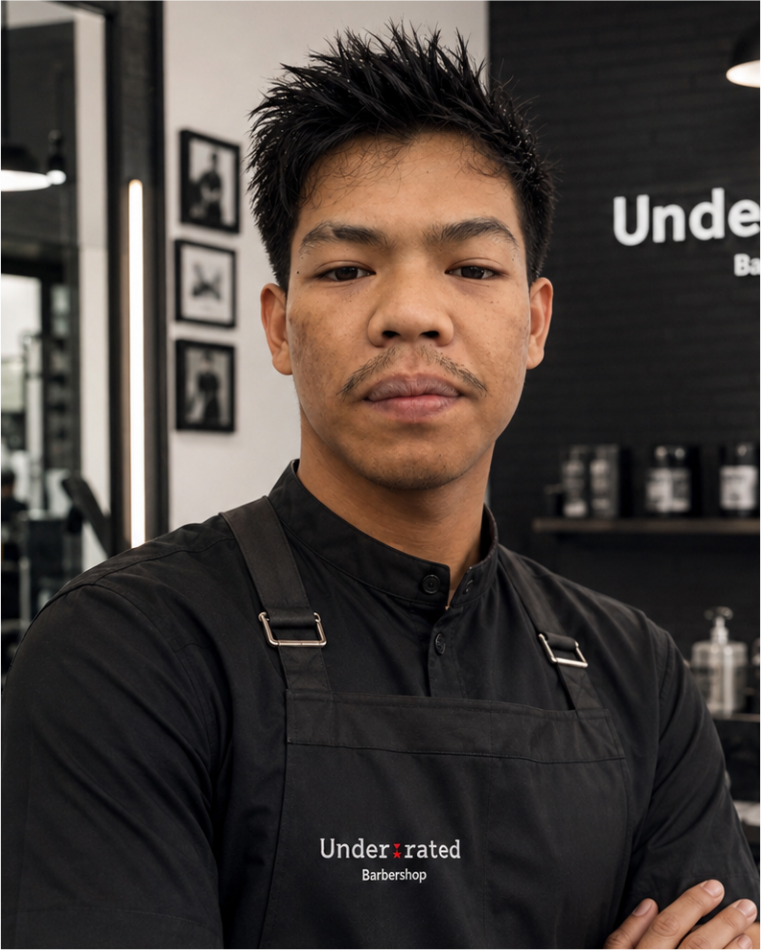
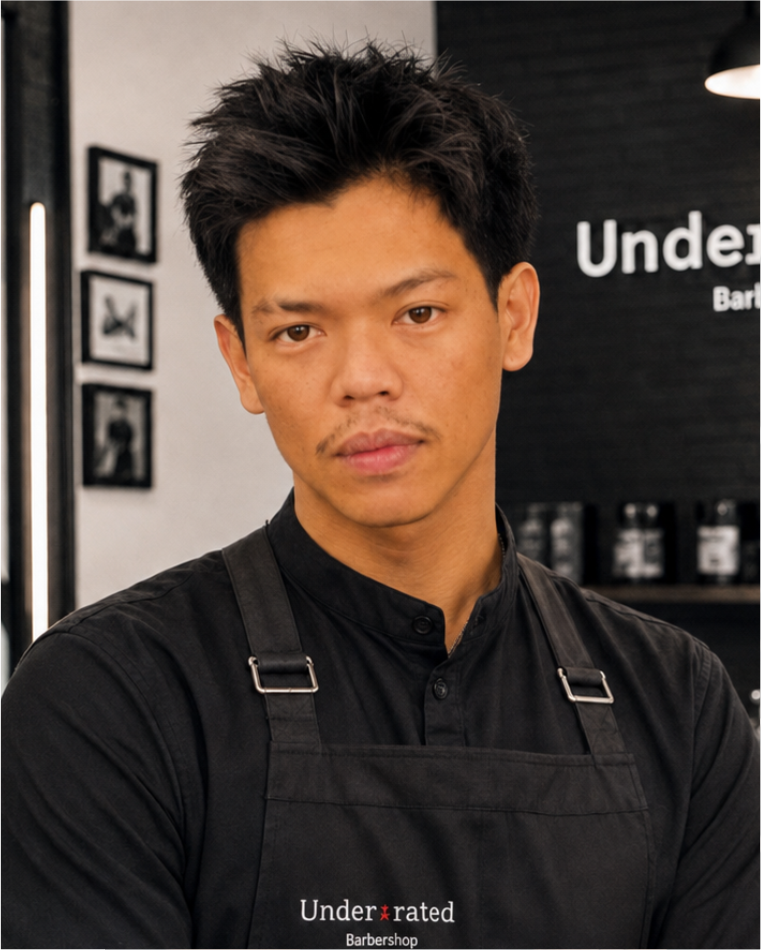
fix(foto): ganti foto Cena, dan pasang penanda versi pada WebP
Foto barunya berukuran sama persis, 761x950 RGBA, jadi pengganti langsung
tanpa tata letak avatar bergeser. WebP dibuat ulang pada mutu yang membuat
bobotnya sepadan dengan berkas lama: 59 KB, dari 75 KB sebelumnya.

PENANDA VERSI PADA WEBP SEBELUMNYA TIDAK ADA SAMA SEKALI

Ini cacat dari perubahan foto kemarin. Hanya PNG yang diberi ?v=3, padahal
WebP-lah yang sebenarnya diunduh hampir semua peramban. Akibatnya mengganti
foto tidak akan pernah sampai ke siapa pun yang sudah memuatnya, dan penanda
pada PNG hanya menghias jalur cadangan yang nyaris tidak pernah dipakai.

Seluruh rujukan kini berpenanda v=4, WebP maupun PNG, di empat berkas.
Ketiga capster ikut naik versinya walau hanya Cena yang berubah: penandanya
disusun dari batang nama yang sama, dan memecahnya per orang menambah tempat
yang bisa terlupakan tanpa alasan yang sepadan.

Berkas uji kini menuntut setiap rujukan WebP berpenanda versi, dan menuntut
penandanya seragam dengan PNG-nya. Kalau berbeda, satu jalur menyajikan foto
lama sementara jalur lain menyajikan yang baru.

diff --git a/landing.html b/landing.html
@@ -523,19 +523,19 @@
       <h2 class="muncul">Our Capster</h2>
       <div class="kapster" id="kapsterDaftar">
         <div class="kapster-orang muncul">
-          <div class="avatar" aria-hidden="true"><picture><source srcset="assets/cena.webp" type="image/webp" /><img src="assets/cena.png?v=3" alt="Cena" loading="lazy" /></picture></div>
+          <div class="avatar" aria-hidden="true"><picture><source srcset="assets/cena.webp?v=4" type="image/webp" /><img src="assets/cena.png?v=4" alt="Cena" loading="lazy" /></picture></div>
           <div class="kapster-nama">Cena</div>
           <div class="kapster-peran">Capster</div>
           <button type="button" class="pil pil-garis" data-kapster="Cena">Pilih Cena</button>
         </div>
         <div class="kapster-orang muncul">
-          <div class="avatar" aria-hidden="true"><picture><source srcset="assets/lukman.webp" type="image/webp" /><img src="assets/lukman.png?v=3" alt="Lukman" loading="lazy" /></picture></div>
+          <div class="avatar" aria-hidden="true"><picture><source srcset="assets/lukman.webp?v=4" type="image/webp" /><img src="assets/lukman.png?v=4" alt="Lukman" loading="lazy" /></picture></div>
           <div class="kapster-nama">Lukman</div>
           <div class="kapster-peran">Capster</div>
           <button type="button" class="pil pil-garis" data-kapster="Lukman">Pilih Lukman</button>
         </div>
         <div class="kapster-orang muncul">
-          <div class="avatar" aria-hidden="true"><picture><source srcset="assets/wanda.webp" type="image/webp" /><img src="assets/wanda.png?v=3" alt="Wanda" loading="lazy" /></picture></div>
+          <div class="avatar" aria-hidden="true"><picture><source srcset="assets/wanda.webp?v=4" type="image/webp" /><img src="assets/wanda.png?v=4" alt="Wanda" loading="lazy" /></picture></div>
           <div class="kapster-nama">Wanda</div>
           <div class="kapster-peran">Capster</div>
           <button type="button" class="pil pil-garis" data-kapster="Wanda">Pilih Wanda</button>
@@ -777,8 +777,8 @@
 
     function gambarKapster(batang, nama) {
       return '<picture>'
-           + '<source srcset="' + batang + '.webp" type="image/webp" />'
-           + '<img src="' + batang + '.png?v=3" alt="' + esc(nama) + '" loading="lazy" />'
+           + '<source srcset="' + batang + '.webp?v=4" type="image/webp" />'
+           + '<img src="' + batang + '.png?v=4" alt="' + esc(nama) + '" loading="lazy" />'
            + '</picture>';
     }
 

diff --git a/tests/landing-booking.test.js b/tests/landing-booking.test.js
@@ -146,6 +146,23 @@ for (const nama of berkasFoto) {
   }
   assert.match(isi, /\.webp/, nama + ' harus menawarkan WebP');
   assert.match(isi, /\.png\?v=/, nama + ' harus menyimpan cadangan PNG');
+
+  // WebP wajib berpenanda versi. Ini pernah terlewat: hanya PNG yang diberi
+  // penanda, padahal WebP yang sebenarnya diunduh hampir semua peramban.
+  // Akibatnya mengganti foto tidak akan pernah sampai ke orang yang sudah
+  // memuatnya, dan penanda pada PNG hanya menghias jalur cadangan yang nyaris
+  // tidak pernah dipakai.
+  const rujukanWebp = isi.match(/[\w${}[\]'. +]*\.webp[^"']*/g) || [];
+  for (const r of rujukanWebp) {
+    assert.match(r, /\.webp\?v=\d+/, nama + ' punya rujukan WebP tanpa penanda versi: ' + r);
+  }
+
+  // Keduanya harus menunjuk versi yang sama; kalau berbeda, satu jalur
+  // menyajikan foto lama sementara jalur lain menyajikan yang baru.
+  const versiWebp = [...isi.matchAll(/\.webp\?v=(\d+)/g)].map(x => x[1]);
+  const versiPng = [...isi.matchAll(/\.png\?v=(\d+)/g)].map(x => x[1]);
+  assert.equal(new Set([...versiWebp, ...versiPng]).size, 1,
+    nama + ' memakai penanda versi foto yang tidak seragam');
   assert.match(isi, /type="image\/webp"/, nama + ' harus memakai <source type="image/webp">');
 
   // Aturannya satu kalimat: foto kapster selalu lewat <picture>. Memeriksa

diff --git a/pos.html b/pos.html
@@ -2438,8 +2438,8 @@
         /* WebP dulu, PNG sebagai cadangan: Safari baru mengenal WebP sejak
            iOS 14, dan iPad kasir yang lebih tua harus tetap melihat wajahnya. */
         const avatarHtml = foto
-          ? `<picture><source srcset="${foto}.webp" type="image/webp" />`
-            + `<img src="${foto}.png?v=3" alt="${escapeHtml(c.name)}" loading="lazy" /></picture>`
+          ? `<picture><source srcset="${foto}.webp?v=4" type="image/webp" />`
+            + `<img src="${foto}.png?v=4" alt="${escapeHtml(c.name)}" loading="lazy" /></picture>`
           : escapeHtml(initial);
         const card = document.createElement('div');
         card.className = `capster-card ${isSel ? 'is-selected' : ''}`;

diff --git a/rekap.html b/rekap.html
@@ -2768,7 +2768,7 @@
               <div class="capster-avatar-sm">${(() => {
                 const foto = { "cena": "assets/cena", "lukman": "assets/lukman", "wanda": "assets/wanda" }[(name || "").toLowerCase().trim()];
                 return foto
-                  ? `<picture><source srcset="${foto}.webp" type="image/webp" /><img src="${foto}.png?v=3" alt="${name}" loading="lazy" /></picture>`
+                  ? `<picture><source srcset="${foto}.webp?v=4" type="image/webp" /><img src="${foto}.png?v=4" alt="${name}" loading="lazy" /></picture>`
                   : name.charAt(0).toUpperCase();
               })()}</div>
               <div>

diff --git a/capster.html b/capster.html
@@ -938,8 +938,8 @@
       const capKey = (me.name || '').toLowerCase().trim();
       if (FOTO_KAPSTER[capKey]) {
         $('avatar').innerHTML = '<picture>'
-          + '<source srcset="' + FOTO_KAPSTER[capKey] + '.webp" type="image/webp" />'
-          + '<img src="' + FOTO_KAPSTER[capKey] + '.png?v=3" alt="' + (me.name || '') + '" />'
+          + '<source srcset="' + FOTO_KAPSTER[capKey] + '.webp?v=4" type="image/webp" />'
+          + '<img src="' + FOTO_KAPSTER[capKey] + '.png?v=4" alt="' + (me.name || '') + '" />'
           + '</picture>';
       } else {
         $('avatar').textContent = me.name.charAt(0).toUpperCase();
